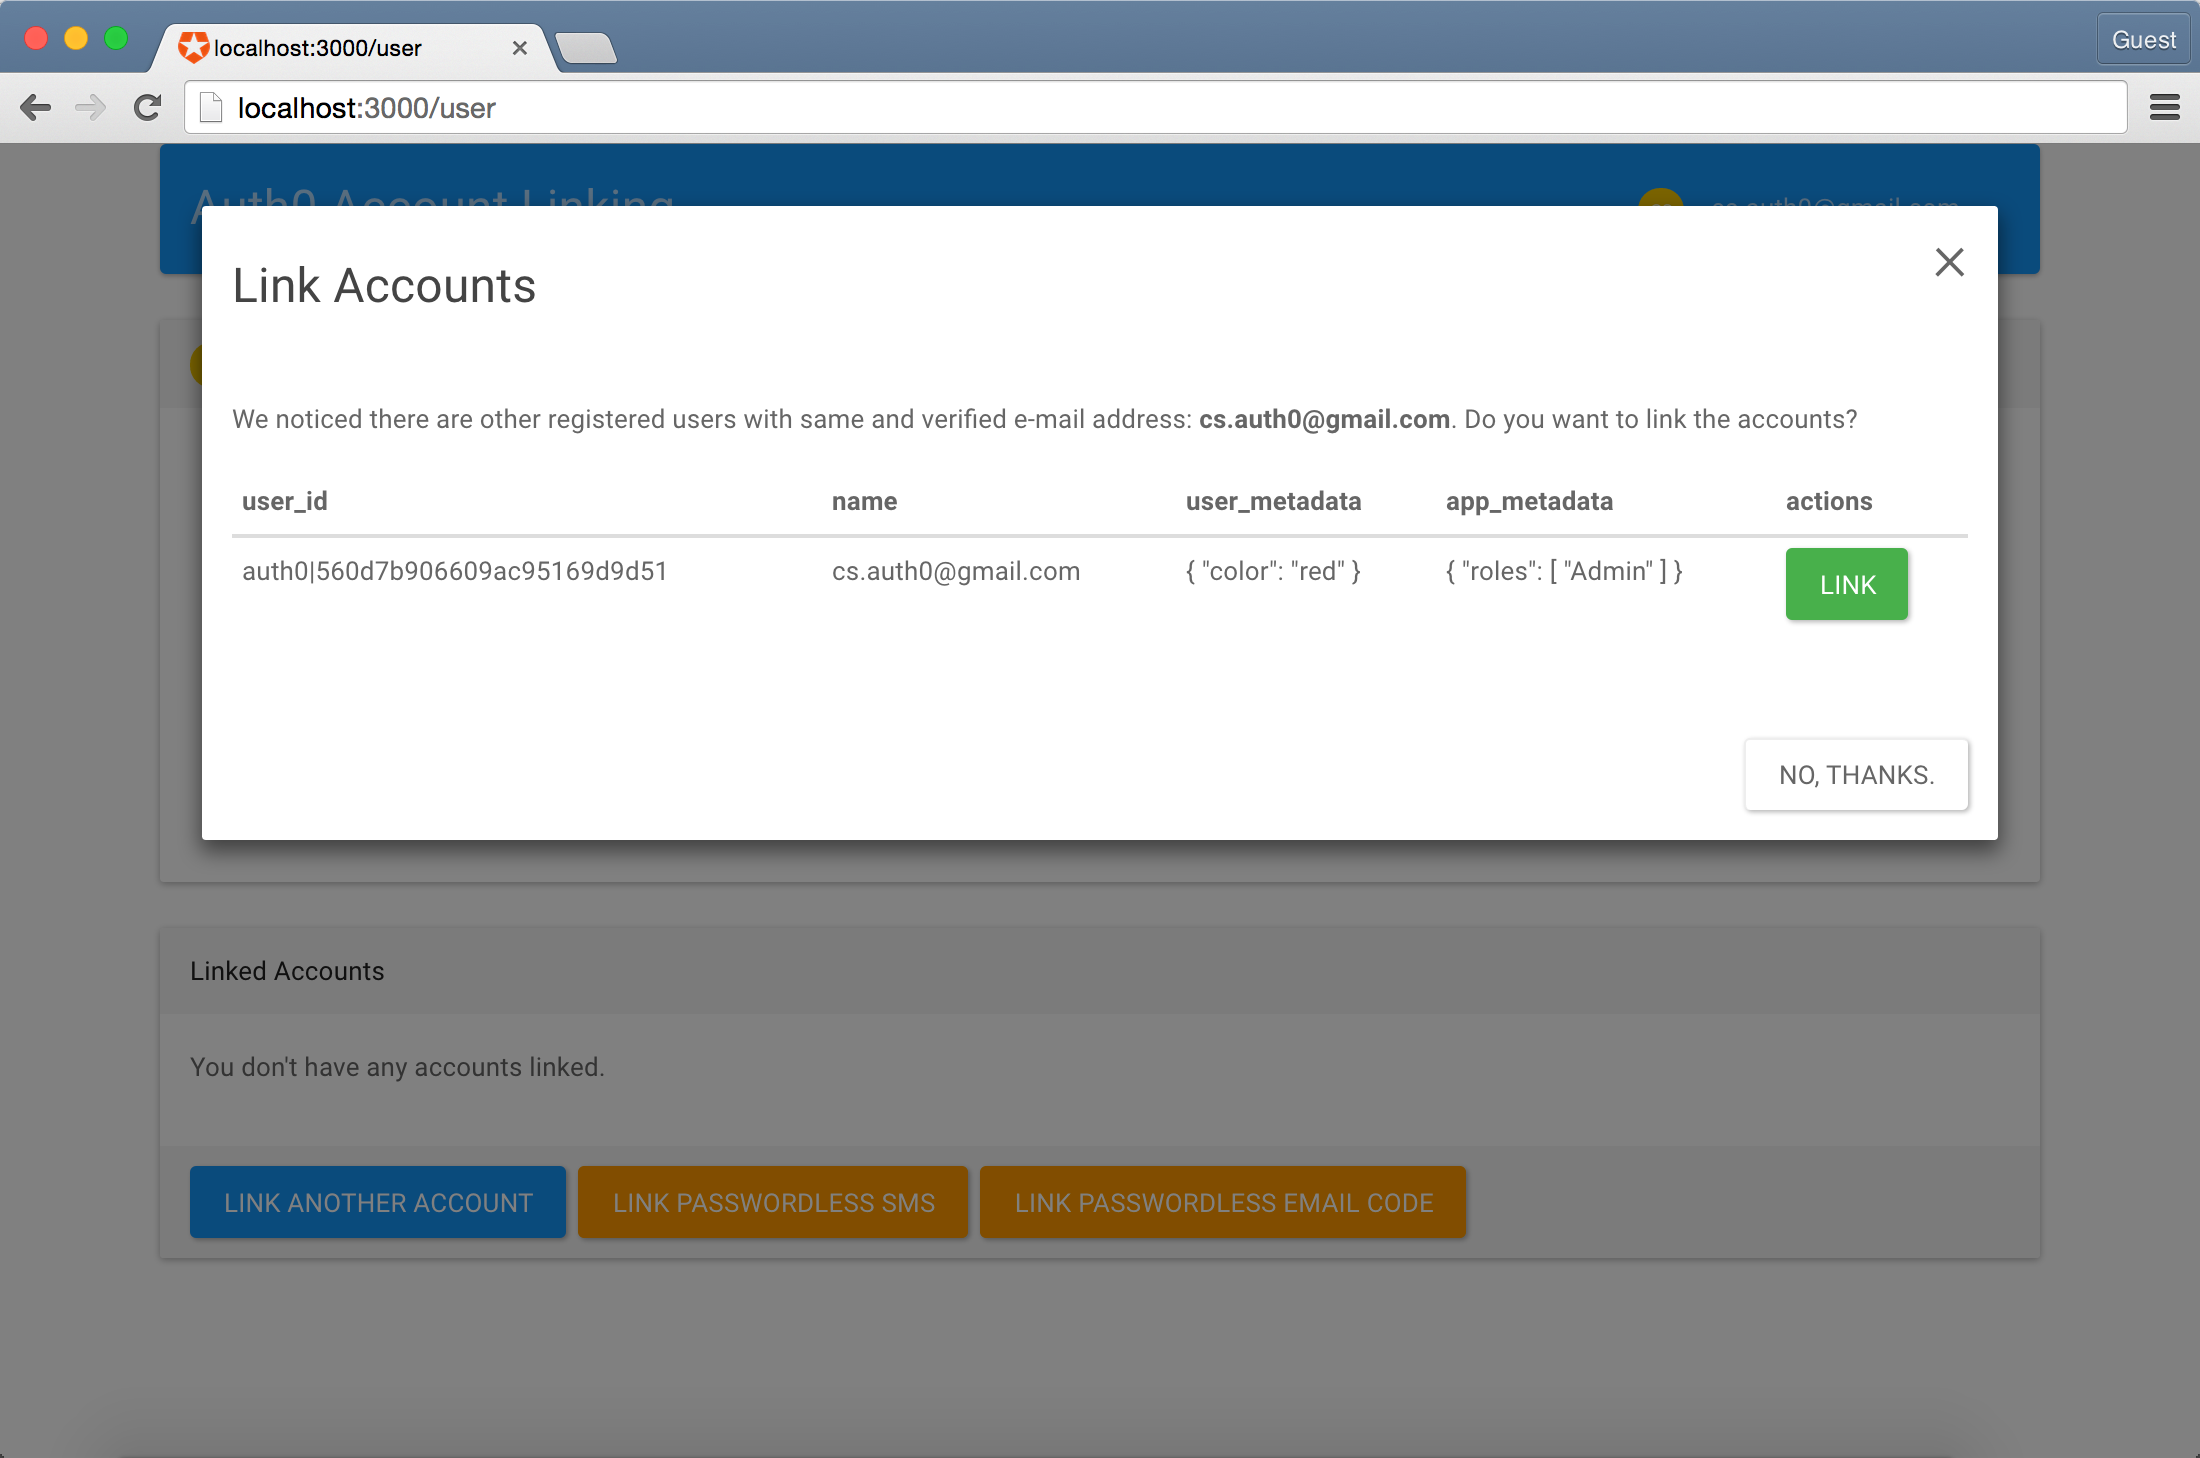
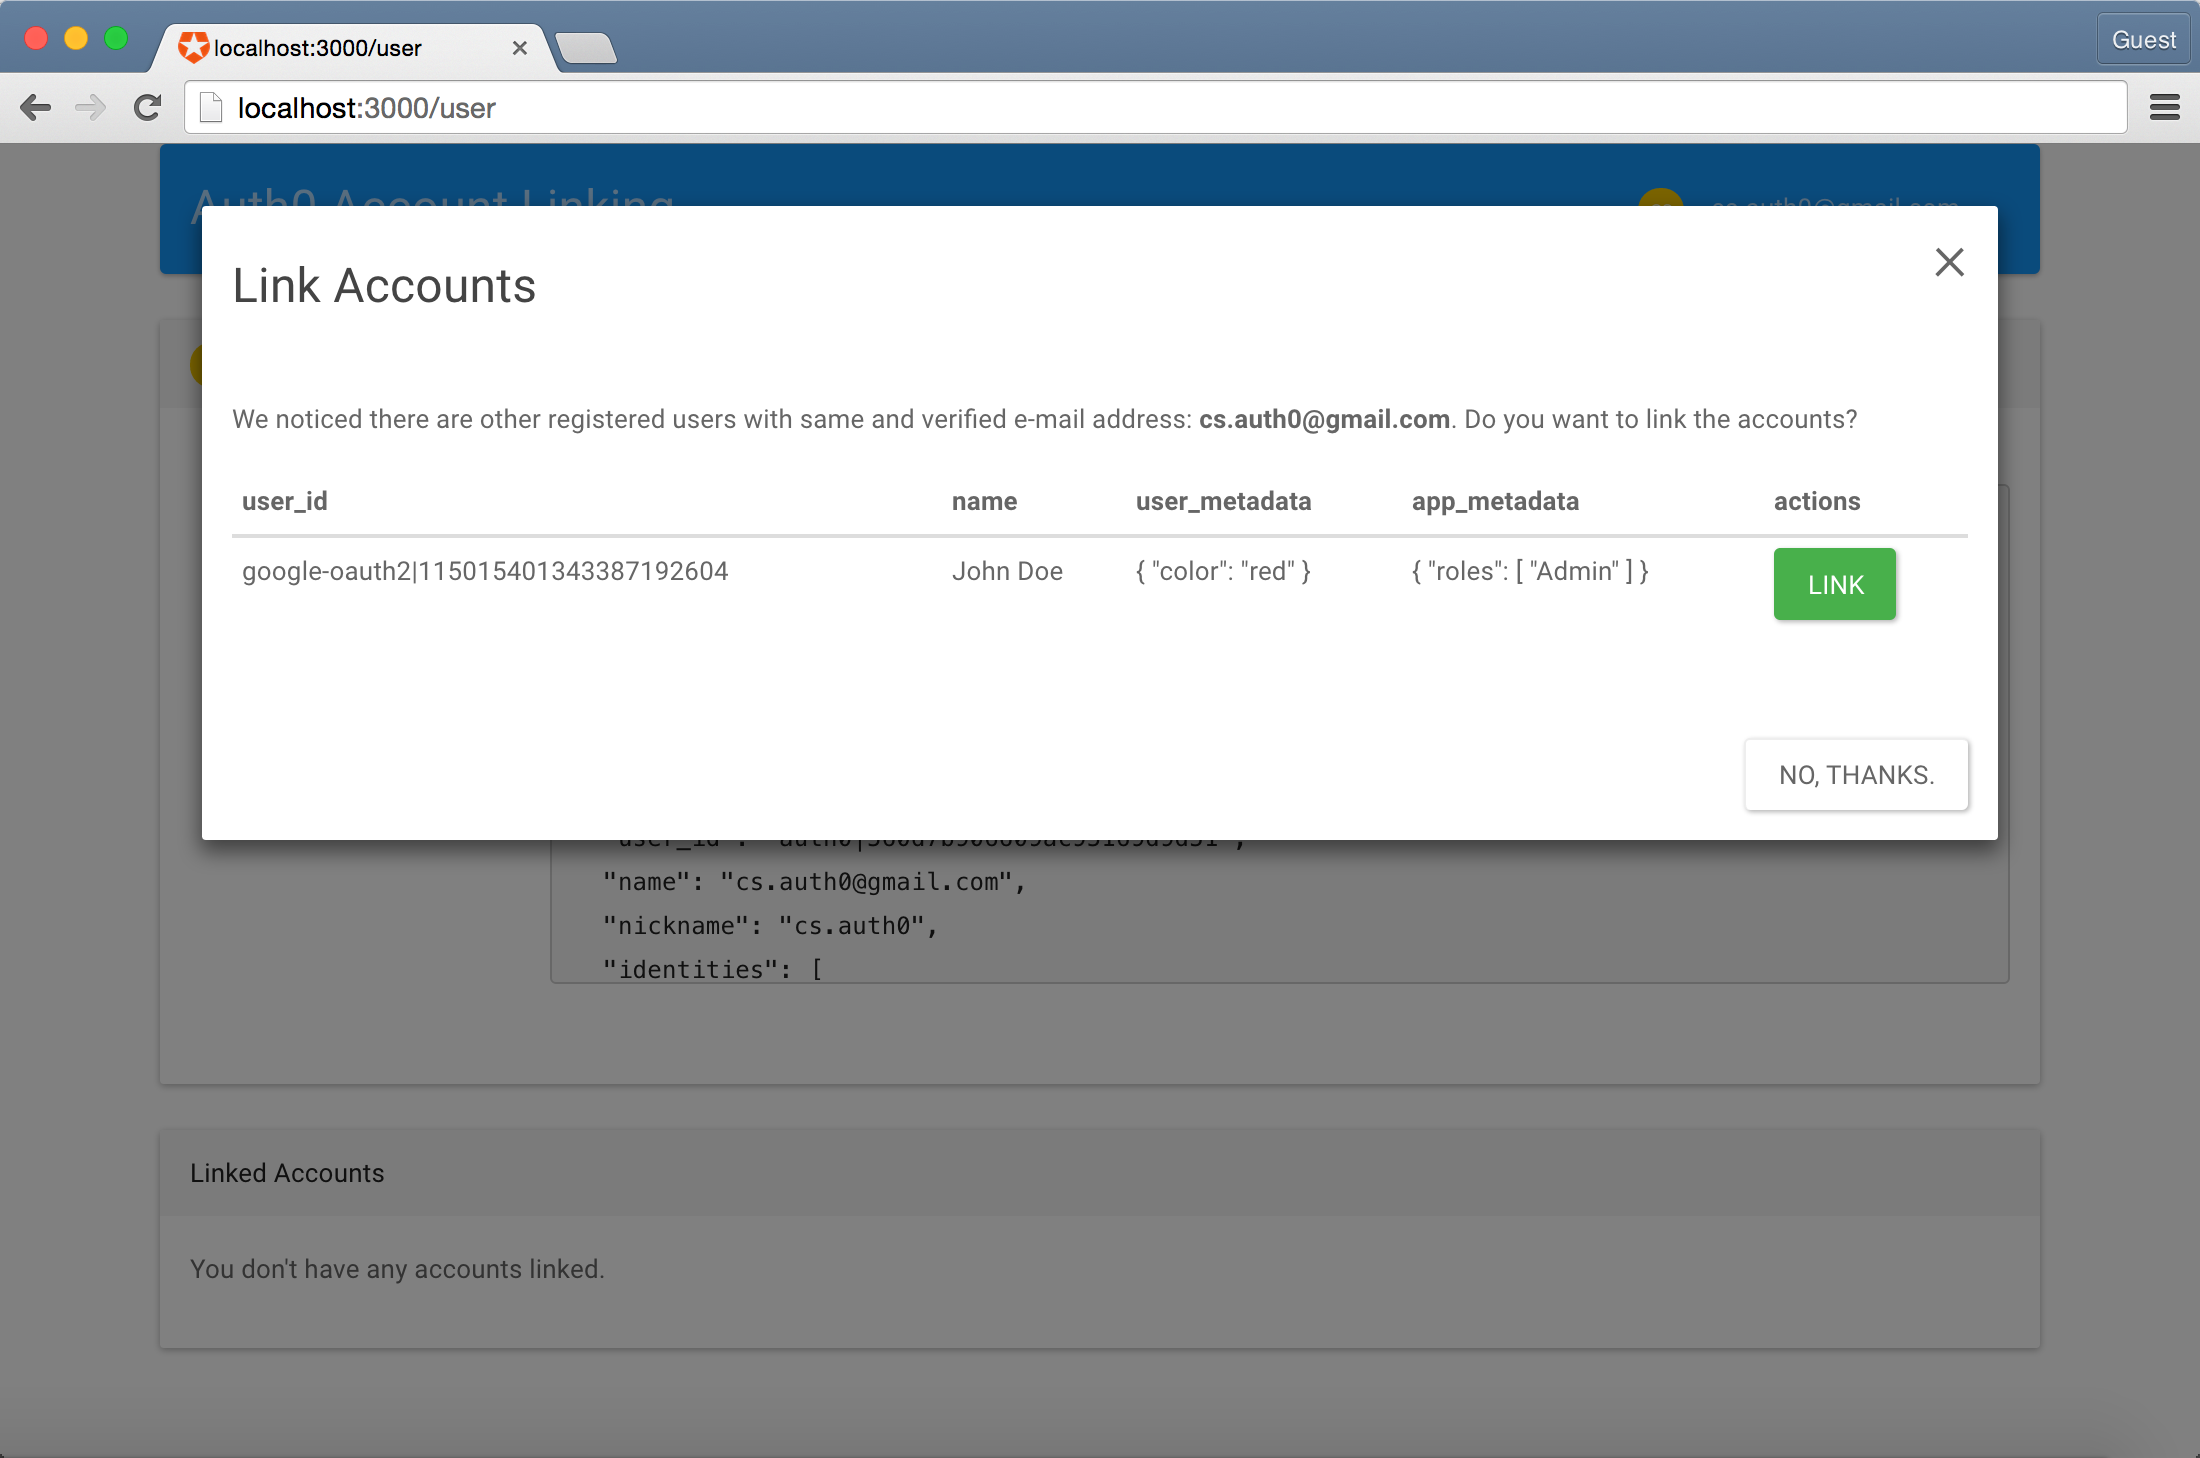
validate email before linking on suggest-linking scenario, and remove manual linking. Update readmes

diff --git a/RegularWebApp/lib/routes/user.js b/RegularWebApp/lib/routes/user.js
@@ -1,6 +1,6 @@
 'use strict';
 
-const ensureLoggedIn = require('connect-ensure-login').ensureLoggedIn();
+const ensureLoggedIn = require('connect-ensure-login').ensureLoggedIn('/');
 const Auth0Client = require('../Auth0Client');
 const express = require('express');
 
@@ -17,10 +17,6 @@ router.get('/', ensureLoggedIn, function(req, res) {
   console.log('returning user',req.user._json);
   res.render('user', { 
     user: req.user._json, //returning req.user._json, since it contains the user_metadata and app_metadata properties the root user doesn't have.
-    provider: req.user.provider, 
-    suggestedUsers: req.session.suggestedUsers, 
-    env:env, 
-    access_token:req.session.accessToken 
   });
 });
 
@@ -36,28 +32,38 @@ router.get('/suggested-users',ensureLoggedIn, (req,res) => {
     });
 });
 
-router.post('/link-accounts/:targetUserId',ensureLoggedIn, (req,res,next) => {
-  // At this point you could get the target user's profile and apply any desired verification prior to linking
-  // or save target user's profile data for merging with session user's data after successfully linking
-  Auth0Client.linkAccounts(req.user.id,req.params.targetUserId)
-  .then( identities => {
-    req.user.identities = req.user._json.identities = identities;
-    res.send(identities);
-  })
-  .catch( err => {
-    console.log('Error linking accounts!',err);
-    next(err);
-  });
+router.post('/link-accounts/:targetUserId', ensureLoggedIn, (req,res,next) => {
+  // Fetch target user to verify email address matches again
+  // (this is needed because targetUserId comes from client side)
+  Auth0Client.getUser(req.params.targetUserId)
+    .then( targetUser => {
+      if(! targetUser.email_verified || targetUser.email !== req.user._json.email){
+        throw new Error('User not valid for linking');
+      }
+      // At this point we can apply any other verification 
+      // or save target user's metadata for merging
+    })
+    .then(() => {
+      return Auth0Client.linkAccounts(req.user.id,req.params.targetUserId);
+    })
+    .then( identities => {
+      req.user.identities = req.user._json.identities = identities;
+      res.send(identities);
+    })
+    .catch( err => {
+      console.log('Error linking accounts!',err);
+      next(err);
+    });
 });
 
-router.post('/unlink-accounts/:targetUserId',ensureLoggedIn, (req,res,next) => {
-  Auth0Client.unlinkAccounts(req.user.id,req.params.targetUserId)
+router.post('/unlink-accounts/:targetUserProvider/:targetUserId',ensureLoggedIn, (req,res,next) => {
+  Auth0Client.unlinkAccounts(req.user.id, req.params.targetUserProvider, req.params.targetUserId)
   .then( identities => {
     req.user.identities = req.user._json.identities = identities;
     res.send(identities);
   })
   .catch( err => {
-    console.log('Error linking accounts!',err);
+    console.log('Error unlinking accounts!',err);
     next(err);
   });
 });

diff --git a/SPA/app.js b/SPA/app.js
@@ -155,18 +155,19 @@ function reloadProfile(){
 /*
 * Link account
 */
-function linkAccount(target_jwt){
-  // At this point you could fetch user_metadata for merging with the root account
-  // otherwise it will be lost after linking the accountsvar user_id = localStorage.getItem('user_id');
-  var id_token = localStorage.getItem('id_token');
+function linkAccount(secondaryJWT){
+  // At this point you could fetch the secondary account's user_metadata for merging with the primary account.
+  // Otherwise, it will be lost after linking the accounts
+  var primaryJWT = localStorage.getItem('id_token');
+  var primaryUserId = localStorage.getItem('user_id');
   $.ajax({
     type: 'POST',
-    url: 'https://' + AUTH0_DOMAIN +'/api/v2/users/' + user_id + '/identities',
+    url: 'https://' + AUTH0_DOMAIN +'/api/v2/users/' + primaryUserId + '/identities',
     data: {
-      link_with: target_jwt
+      link_with: secondaryJWT
     },
     headers: {
-      'Authorization': 'Bearer ' + id_token
+      'Authorization': 'Bearer ' + primaryJWT
     }
   }).then(function(identities){
     alert('linked!');
@@ -179,20 +180,21 @@ function linkAccount(target_jwt){
 /*
 * Unlink account
 */
-function unlinkAccount(provider,userId){
-  var user_id = localStorage.getItem('user_id');
-  var id_token = localStorage.getItem('id_token');
+function unlinkAccount(secondaryProvider, secondaryUserId){
+  var primaryUserId = localStorage.getItem('user_id');
+  var primaryJWT = localStorage.getItem('id_token');
   $.ajax({
     type: 'DELETE',
-    url: 'https://' + AUTH0_DOMAIN +'/api/v2/users/' + user_id + '/identities/' + provider + '/' + userId,
+    url: 'https://' + AUTH0_DOMAIN +'/api/v2/users/' + primaryUserId +
+         '/identities/' + secondaryProvider + '/' + secondaryUserId,
     headers: {
-      'Authorization': 'Bearer ' + id_token
+      'Authorization': 'Bearer ' + primaryJWT
     }
   }).then(function(identities){
     alert('unlinked!');
     showLinkedAccounts(identities);
   }).fail(function(jqXHR){
-    alert('Error unlinking Accounts: ' + jqXHR.status + " " + jqXHR.responseText);
+    alert('Error unlinking Accounts: ' + jqXHR.status + ' ' + jqXHR.responseText);
   });
 }
 
@@ -258,7 +260,7 @@ $(document).ready(function() {
       // there is already a logged in user, the hash comes from a linking account operation, 
       // and we should continue with the linking procedure
       if (isUserLoggedIn){
-        linkAccount(hash.id_token);
+        linkAccount(hash.id_token, hash.profile.sub);
       } else {
         // the hash comes from the site's first time login
         lock.getProfile(hash.id_token, function(err, profile) {

diff --git a/RegularWebApp/lib/Auth0Client.js b/RegularWebApp/lib/Auth0Client.js
@@ -108,7 +108,7 @@ class Auth0Client {
 	*
 	* Example:
 	*
-	*  Auth0Client.unlinkAccounts('google-oauth2%7C115015401343387192604','sms|560ebaeef609ee1adaa7c551')
+	*  Auth0Client.unlinkAccounts('google-oauth2%7C115015401343387192604','sms','560ebaeef609ee1adaa7c551')
 	*  .then( identities => {
   *    // use new user's array of identities
   *  })
@@ -117,17 +117,15 @@ class Auth0Client {
   *  });
 	*  
 	* @param {String} rootUserId
+	* @param {String} targetUserProvider
   * @param {String} targetUserId
   * @api public
 	*/
-	unlinkAccounts(rootUserId,targetUserId){
-		const provider = targetUserId.split('|')[0];
-		const user_id = targetUserId.split('|')[1];
-
+	unlinkAccounts(rootUserId, targetUserProvider, targetUserId){
 		return new Promise((resolve,reject) => {
 			var reqOpts = {
 				method: 'DELETE',
-				url: `https://${process.env.AUTH0_DOMAIN}/api/v2/users/${rootUserId}/identities/${provider}/${user_id}`,
+				url: `https://${process.env.AUTH0_DOMAIN}/api/v2/users/${rootUserId}/identities/${targetUserProvider}/${targetUserId}`,
 				headers: {
 					'Authorization': `Bearer ${process.env.AUTH0_APIV2_TOKEN}`
 				}

diff --git a/RegularWebApp/app.js b/RegularWebApp/app.js
@@ -11,7 +11,6 @@ const bodyParser = require('body-parser');
 const session = require('express-session');
 const passport = require('passport');
 const Auth0Strategy = require('passport-auth0');
-const Auth0Client = require('./lib/Auth0Client');
 const routes = require( './lib/routes/index');
 const user = require('./lib/routes/user');
 
@@ -27,8 +26,8 @@ let strategy = new Auth0Strategy({
     
     console.log('profile',profile);
 
-    // accessToken is the token to call Auth0 API. We will need it to link accounts
-    req.session.accessToken = accessToken;
+    // save logged-in user's JWT for calling Auth0 API linking/unlinking endpoints
+    req.session.id_token = extraParams.id_token;
 
     done(null,profile);
 });

diff --git a/RegularWebApp/lib/routes/index.js b/RegularWebApp/lib/routes/index.js
@@ -2,6 +2,7 @@
 
 const express = require('express');
 const passport = require('passport');
+const handleCallbackError = require('./handleCallbackError')();
 
 const router = express.Router();
 
@@ -22,9 +23,8 @@ router.get('/logout', (req, res) => {
 });
 
 router.get('/callback',
-  //TODO: add middleware to check if the query string has an error message
-  //example: callback?error=invalid_connection&error_description=the%20connection%20was%20not%20found 302 1.537 ms - 68
-  passport.authenticate('auth0', { failureRedirect: '/login' }),
+  handleCallbackError,
+  passport.authenticate('auth0'),
   (req, res) => {
     res.redirect(req.session.returnTo || '/user');
   });

diff --git a/RegularWebApp/lib/routes/handleCallbackError.js b/RegularWebApp/lib/routes/handleCallbackError.js
@@ -1,0 +1,16 @@
+/**
+ * This middleware checks if there is an `error` param within the callback url query string.
+ * It there is, it calls next with an error.
+ *
+ * @return {Function}
+ * @api public
+ */
+module.exports = function handleCallbakError() { 
+  return function(req, res, next) {
+    console.log('req.query.err',req.query.error);
+    if (req.query.error){
+      return next(new Error(req.query.error +': '+req.query.error_description));
+    }
+    next();
+  };
+};

diff --git a/RegularWebApp/public/stylesheets/style.css b/RegularWebApp/public/stylesheets/style.css
@@ -2,3 +2,10 @@
     width: 23px;
     margin-right: 10px;
 }
+pre.profile {
+  max-height: 250px;
+}
+td > pre {
+  max-width: 290px;
+  max-height: 100px;
+}

diff --git a/RegularWebApp/README.md b/RegularWebApp/README.md
@@ -1,18 +1,14 @@
 # Auth0 Node.js Regular Web App Account Linking Sample
 
-This sample shows how to [link and unlink accounts from server side code](https://auth0.com/docs/link-accounts/server-side) within a Node.js Regular Web App.
+This Node.js Regular Web App serves as an example of the [Suggested Account Linking Scenario](https://auth0.com/docs/link-accounts/suggested-linking), where the App searches for other accounts with same verified email address after user logs in, and suggests him to link the accounts if any match is found.
 
 ## Key Features
 
-The Regular Web App Account Linking Sample includes:
-
 * Login with any available connection using [Lock](https://github.com/auth0/lock)
-* Login with any passwordless connections, using [Lock Passwordless](https://github.com/auth0/lock-passwordless)
-* Notice of existance of other accounts with same verified email address to link to
-* Display of current profile and already linked accounts
+* Login with email passwordless connections, using [Lock Passwordless](https://github.com/auth0/lock-passwordless)
+* Suggestion of linking to other accounts if other accounts with same verified email address are found
+* Display of current profile and linked accounts
 * Option to unlink an account
-* Option to link another account
-* Option to link to a passwordless account
 
 ![](regular-web-app-suggest-linking.png)
 
@@ -23,15 +19,15 @@ The Regular Web App Account Linking Sample includes:
 1. Install Node.js v4.0.0 or later
 2. Generate an APIv2 token with `read:users` and `update:users` scopes.
 3. Add a .env file containing your credentials. You can use sample.env as template.
-4. In your App's configuration on the [Auth0 Dashboard](https://manage.auth0.com), add `http://localhost:3000/callback` and `http://localhost:3000/user` to the list of **Allowed Callback URLs**. 
-5. Run: `npm install` and `npm run start`
-6. Go to `http://localhost:3000` and you'll see the app running :).
+4. In your App's configuration on the [Auth0 Dashboard](https://manage.auth0.com), add `http://localhost:3000/callback` to the list of **Allowed Callback URLs**. 
+5. Make sure you have at least two enabled econnections where you can login with the same email.
+6. Run: `npm install` and `npm run start`
+7. Go to `http://localhost:3000` and you'll see the app running :).
 
 ## Usage
 
 * Go to http://localhost:3000 and press any of the login buttons to log in to the App.
-* In order to see the suggestion to link to other accounts with same verified email, you need to have another user associated with the app. If you don't see it, you can logout and login again with another account with same (verified) email.
+* In order to see the suggestion to link to other accounts with same verified email, you need to have another user associated with the app. If you don't see it, you can logout and login again with another account with same email. If you use a passwordless connection, the email will be automatically verified on login.
 * You will see a modal suggesting you to link the accounts that have same verified email addresses. 
 * Click the button to link the accounts.
-* You can also click on any of the link accounts buttons to manually initiate an account linking
 * Try unlinking accounts, too.

diff --git a/SPA/README.md b/SPA/README.md
@@ -1,10 +1,8 @@
 # Auth0 jQuery Single Page App Account Linking Sample
 
-This sample application shows how to [link and unlink accounts from client side code](https://auth0.com/docs/link-accounts/client-side) within a Single Page Application.
+This Single Page App serves as an example of the [User Initiated Account Linking Scenario](https://auth0.com/docs/link-accounts/user-initiated), where the user can click on a **link account** button and login with other identity to link to. 
 
 ## Key Features
-
-The SPA Linking Accounts sample includes:
 
 * Login with any available connection using [Lock](https://github.com/auth0/lock)
 * Login with any passwordless connections, using [Lock Passwordless](https://github.com/auth0/lock-passwordless)

diff --git a/README.md b/README.md
@@ -4,10 +4,10 @@ Sample implementations of [Auth0 Account Linking](https://auth0.com/docs/link-ac
 
 ## Key Features
 
-The Linking Account samples include:
+The Linking Account samples covers the following scenarios:
 
-* [Client side Account Linking within a Single Page Application](/SPA)
-* [Server side Account Linking within a Regular Web Application](/RegularWebApp)
+* [User Initiated Account Linking within a Single Page Application](/SPA)
+* [Suggested Account Linking within a Regular Web Application](/RegularWebApp)
 
 ## What is Auth0?
 
